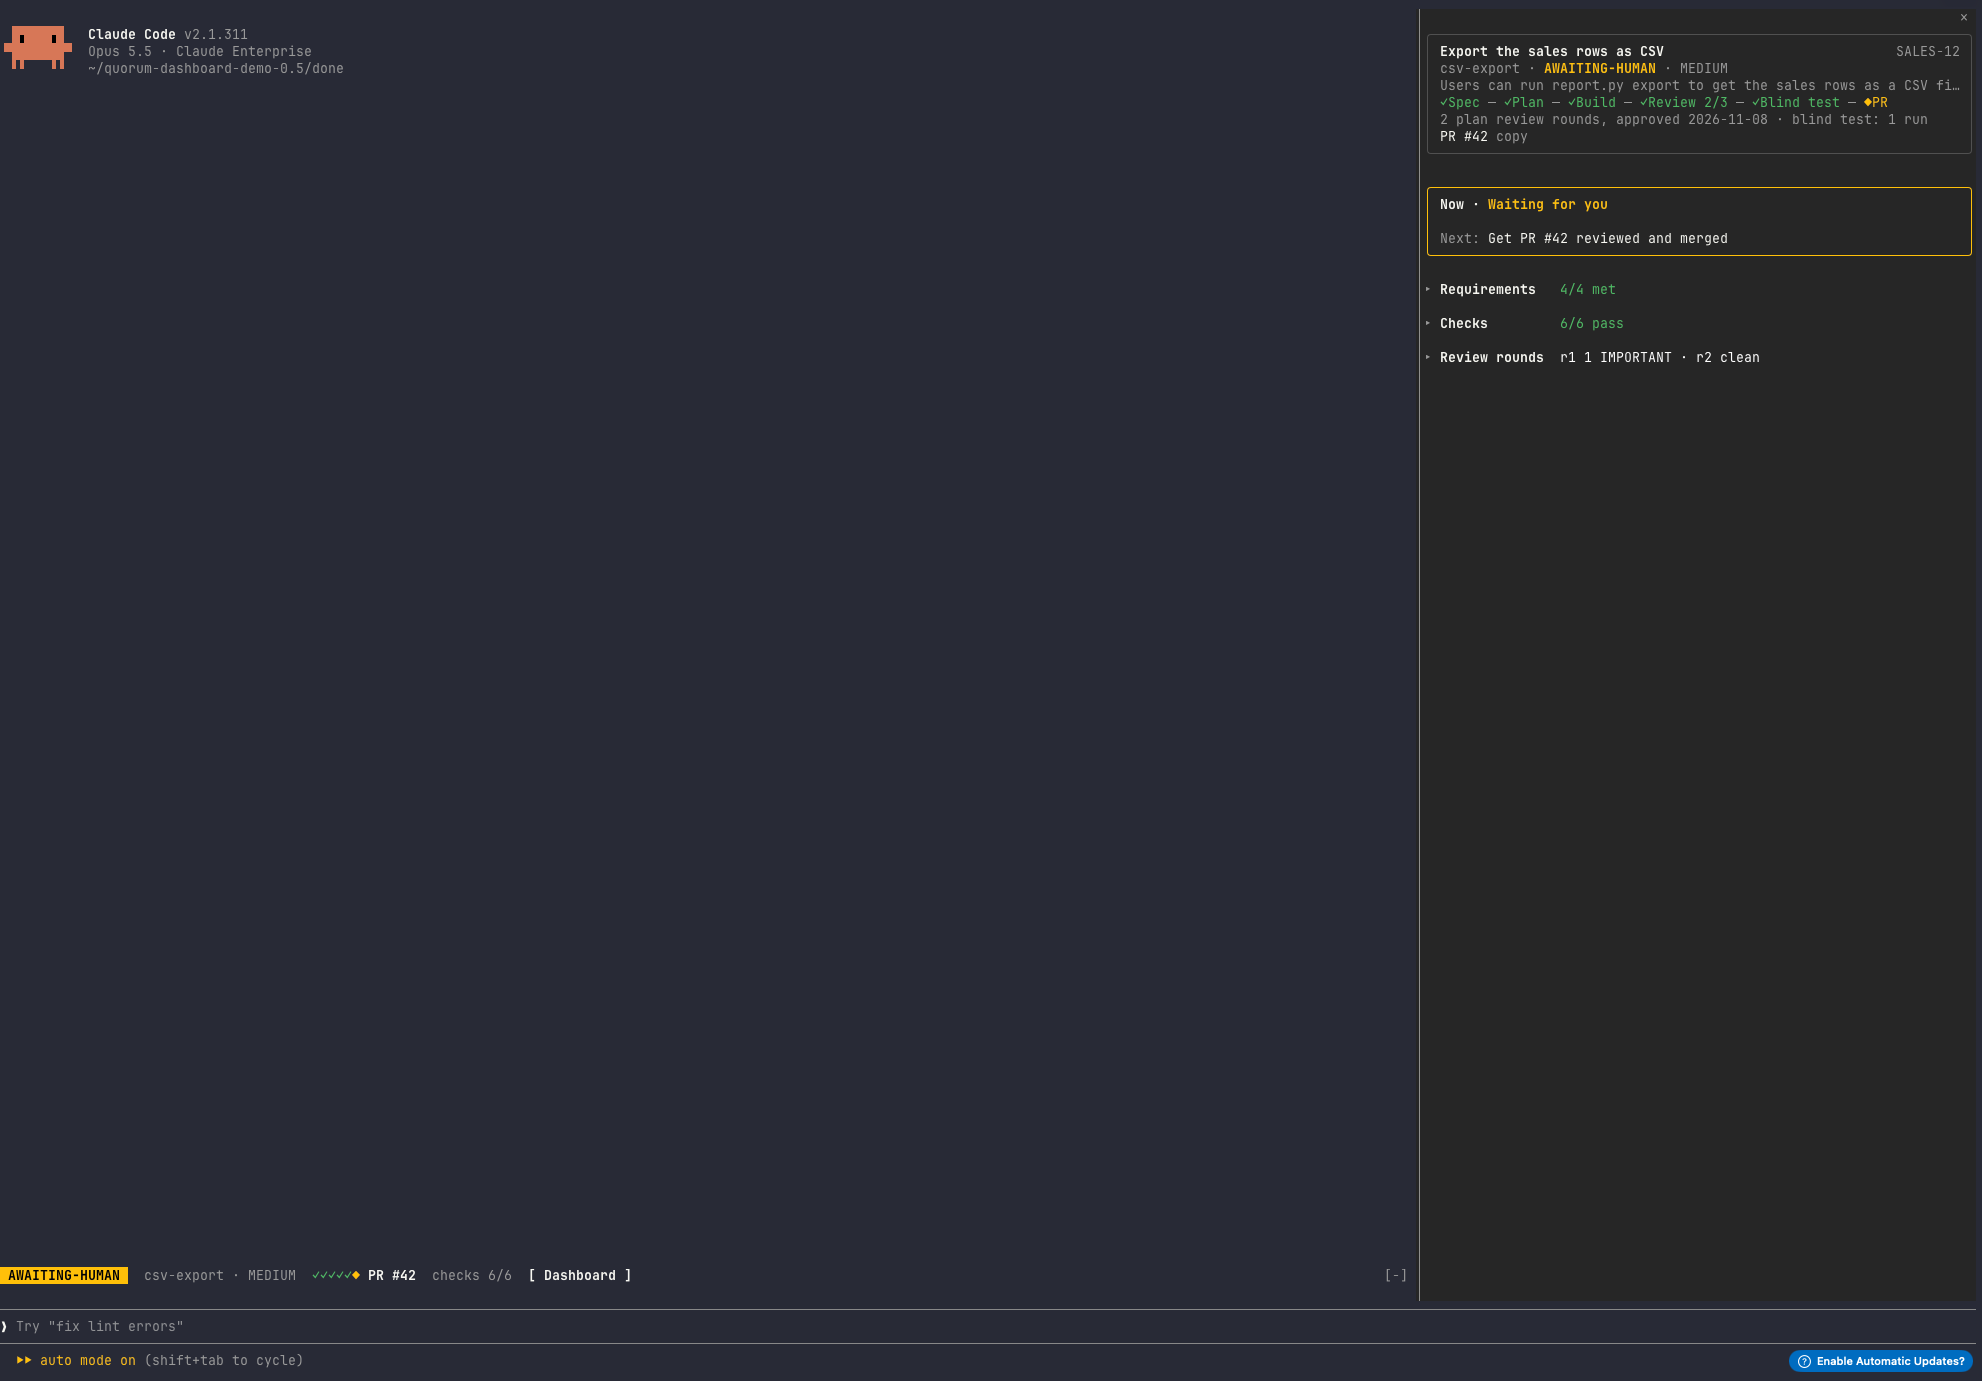
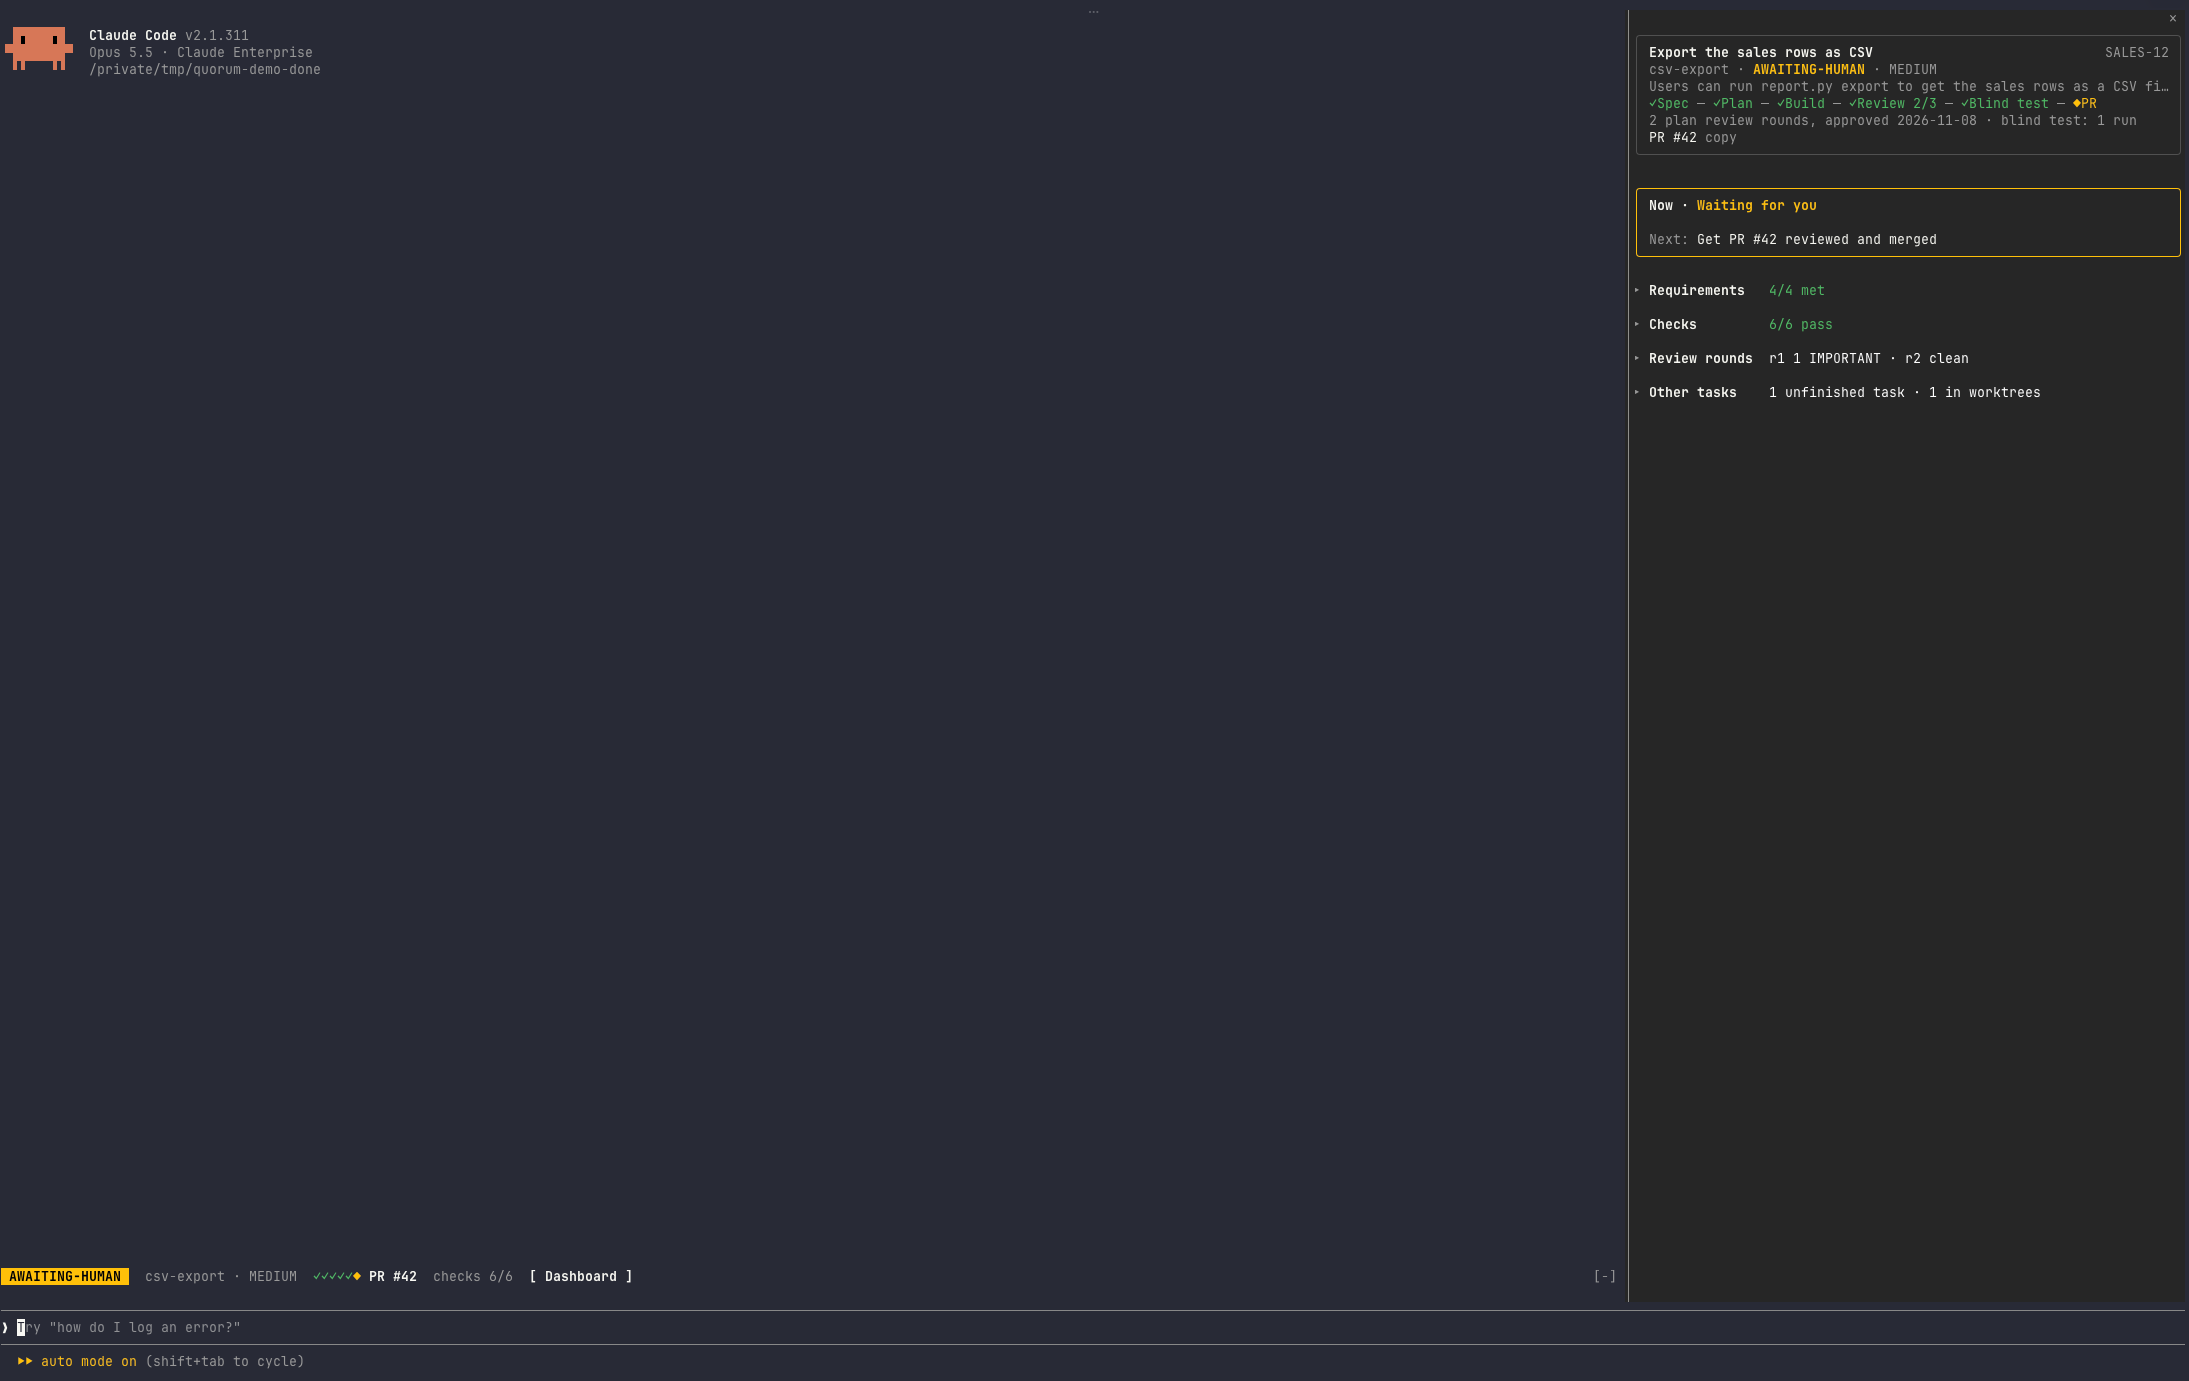
Retake the dashboard screenshots, with the Other tasks section

diff --git a/README.md b/README.md
@@ -288,10 +288,10 @@ task, so running it again on the same PR reuses its model choice. On a Quorum ta
 While a task is active, Quorum shows where it is without you asking:
 
 <p align="center">
-  <img src="assets/dashboard-review.png" alt="Claude Code with the Quorum dashboard docked on the right, for the task &quot;Export the sales rows as CSV&quot;, ticket SALES-12. The task card: csv-export, IN_REVIEW, MEDIUM, the goal, the stepper with Spec, Plan, and Build ticked and Review at round 2 of 3, and the plan&#39;s 2 review rounds, approved 2026-11-08. The Now card, code review round 2 of 3: 2 of 4 reviewers replied, Logic and edge cases clean, Architecture and drift 1 NIT, Patterns, Docs, and the verifier vote waiting, and a Next button for /quorum:review-loop that fills the prompt. Below, folding sections: Requirements opened by itself, 3 of 4 met, requirement 1 failing, then what&#39;s out of scope; Checks opened by itself, 5 of 6 pass, a warning that the proof ran before HEAD, and a PASS or FAIL badge on each check, with 1b, honors DATA_FILE, failing; Review rounds folded to r1 1 IMPORTANT, r2 reviewing. Above the prompt, the band: an IN_REVIEW badge, csv-export, MEDIUM, a dot per stage, Review 2/3, reviewers 2/4, checks 5/6, 1 check failing and proof older than HEAD in red, the Next button, and Dashboard." width="880">
+  <img src="assets/dashboard-review.png" alt="Claude Code with the Quorum dashboard docked on the right, for the task &quot;Export the sales rows as CSV&quot;, ticket SALES-12. The task card: csv-export, IN_REVIEW, MEDIUM, the goal, the stepper with Spec, Plan, and Build ticked and Review at round 2 of 3, and the plan&#39;s 2 review rounds, approved 2026-11-08. The Now card, code review round 2 of 3: 2 of 4 reviewers replied, Logic and edge cases clean, Architecture and drift 1 NIT, Patterns, Docs, and the verifier vote waiting, and a Next button for /quorum:review-loop that fills the prompt. Below, folding sections: Requirements opened by itself, 3 of 4 met, requirement 1 failing, then what&#39;s out of scope; Checks opened by itself, 5 of 6 pass, a warning that the proof ran before HEAD, and a PASS or FAIL badge on each check, with 1b, honors DATA_FILE, failing; Review rounds folded to r1 1 IMPORTANT, r2 reviewing; Other tasks folded to 1 unfinished task, 1 in worktrees. Above the prompt, the band: an IN_REVIEW badge, csv-export, MEDIUM, a dot per stage, Review 2/3, reviewers 2/4, checks 5/6, 1 check failing and proof older than HEAD in red, the Next button, and Dashboard." width="880">
 </p>
 <p align="center">
-  <img src="assets/dashboard-done.png" alt="The same task finished. The task card: AWAITING-HUMAN, every stage ticked and the PR stage waiting, the plan&#39;s 2 review rounds approved 2026-11-08 and 1 blind-test run, and PR #42 as a link with a copy button. The Now card, its border amber because the task waits on you: waiting for you, next, get PR #42 reviewed and merged. Every section folded to its summary, nothing wrong: Requirements 4 of 4 met, Checks 6 of 6 pass, Review rounds r1 1 IMPORTANT, r2 clean. Above the prompt, the band: an AWAITING-HUMAN badge, csv-export, MEDIUM, five ticked dots and the PR&#39;s, PR #42, checks 6/6, and Dashboard." width="880">
+  <img src="assets/dashboard-done.png" alt="The same task finished. The task card: AWAITING-HUMAN, every stage ticked and the PR stage waiting, the plan&#39;s 2 review rounds approved 2026-11-08 and 1 blind-test run, and PR #42 as a link with a copy button. The Now card, its border amber because the task waits on you: waiting for you, next, get PR #42 reviewed and merged. Every section folded to its summary, nothing wrong: Requirements 4 of 4 met, Checks 6 of 6 pass, Review rounds r1 1 IMPORTANT, r2 clean, and Other tasks, 1 unfinished task, 1 in worktrees. Above the prompt, the band: an AWAITING-HUMAN badge, csv-export, MEDIUM, five ticked dots and the PR&#39;s, PR #42, checks 6/6, and Dashboard." width="880">
 </p>
 
 <sub>Both are the demo task from `assets/src/dashboard-demo.sh` (see [CONTRIBUTING.md](CONTRIBUTING.md)): mid-review, and
